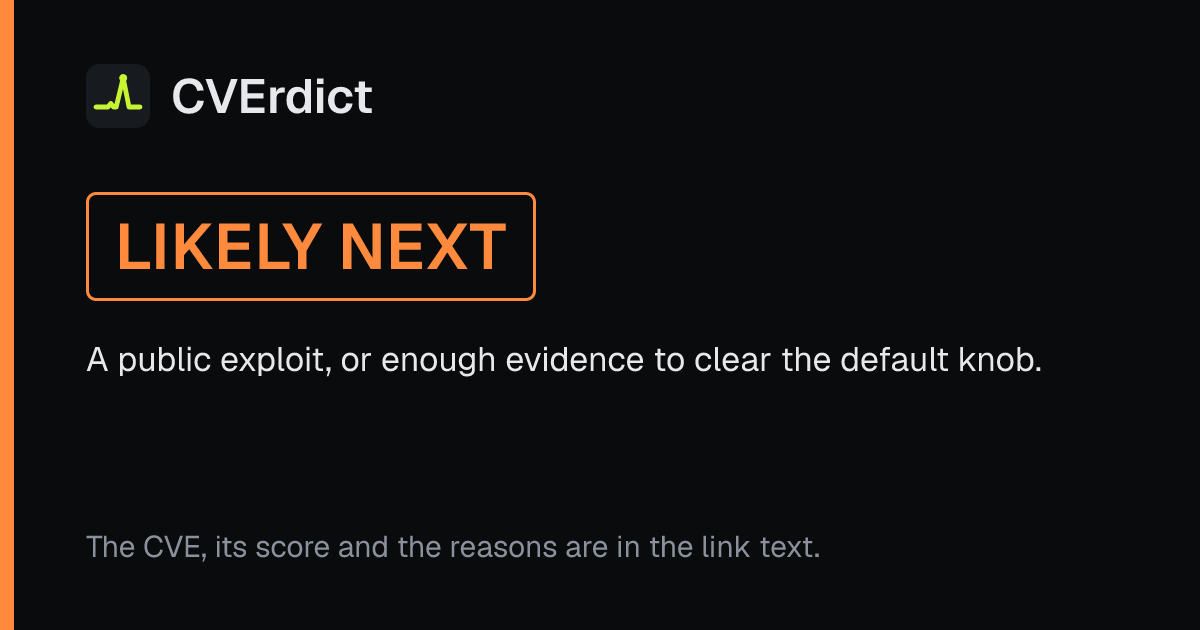
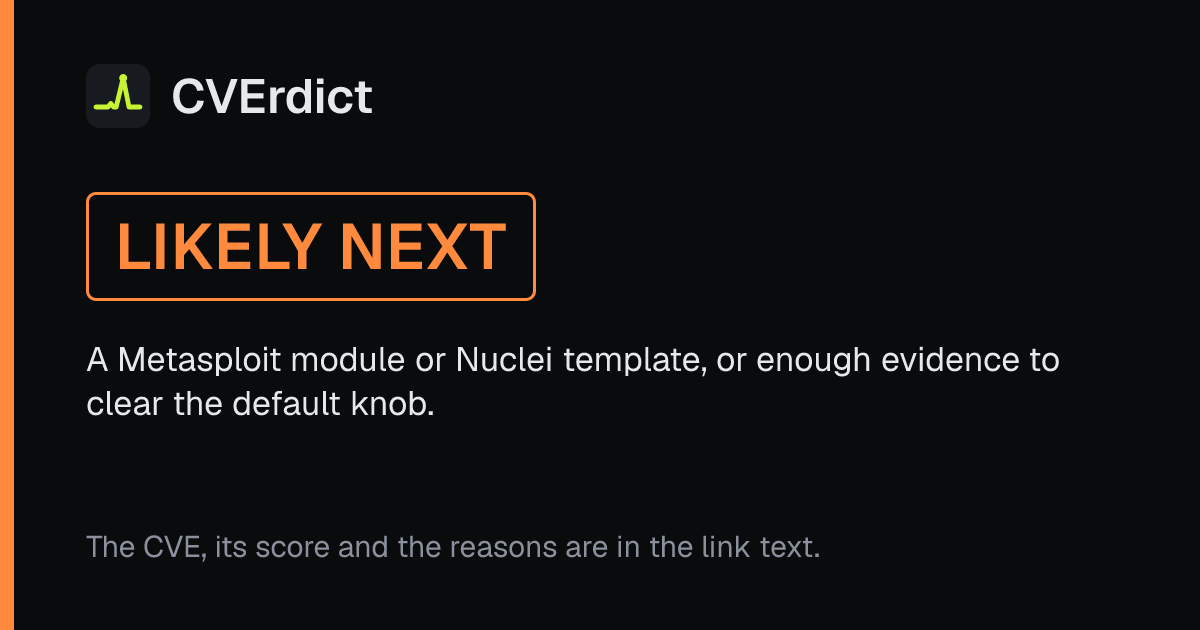
Share images: the Likely next card names what forces the tier
The card said "A public exploit, or enough evidence to clear the default
knob", but a PoC repo alone does not make a CVE Likely next, and a Watch
preview can say "Public exploits: 1 vetted PoC repo". Only a Metasploit
module or a Nuclei template, or a score at the knob, does (tierFor() in
shared/contract.ts). The line and its alt text now say that; likely.png
is re-rendered with tools/og/render.mjs (v=13c97d8d), the other four
images are byte-identical.

Changed region(s): [[0.0617, 0.5429, 0.8942, 0.6635]]

diff --git a/shared/share-images.ts b/shared/share-images.ts
@@ -8,7 +8,7 @@ export const SHARE_IMAGE_HEIGHT = 630;
 export const SHARE_IMAGES = {
   site: { path: "/og/site.png", v: "c0df59e9", alt: "CVErdict: every CVE gets a verdict, and every verdict comes with receipts. Tiers: Exploited, Likely next, Watch, Quiet." },
   exploited: { path: "/og/exploited.png", v: "44d6d6c1", alt: "CVErdict verdict: Exploited. Confirmed exploitation: CISA KEV, CISA SSVC or the vendor." },
-  likely: { path: "/og/likely.png", v: "065b7306", alt: "CVErdict verdict: Likely next. A public exploit, or enough evidence to clear the default knob." },
+  likely: { path: "/og/likely.png", v: "13c97d8d", alt: "CVErdict verdict: Likely next. A Metasploit module or Nuclei template, or enough evidence to clear the default knob." },
   watch: { path: "/og/watch.png", v: "da491ad4", alt: "CVErdict verdict: Watch. Some evidence, below the default knob." },
   quiet: { path: "/og/quiet.png", v: "df413cb7", alt: "CVErdict verdict: Quiet. Little or no evidence yet, below the default knob. Quiet is not safe." },
 } as const;
